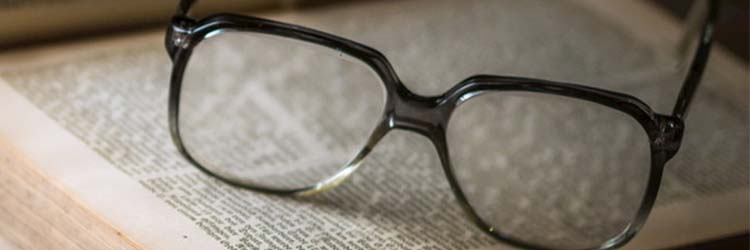
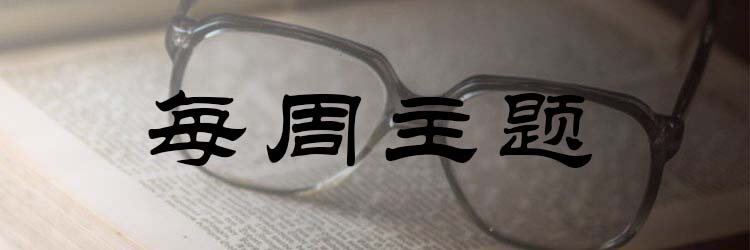
change swiper image

diff --git a/nianshi/pages/year/year.js b/nianshi/pages/year/year.js
@@ -62,7 +62,7 @@ Page({
   },
   bindYearTap: function(e){
     console.log(e)
-    var years = ['1900前', '1900', '1910', '1920', '1930', '1940', '1950', '1960', '1970', '1980', '1990', '2000', '2010', '2010'];
+    var years = ['19000', '1900', '1910', '1920', '1930', '1940', '1950', '1960', '1970', '1980', '1990', '2000', '2010', '20100'];
     wx.navigateTo({
       url: '/pages/articleList/articleList?id=' + years[e.target.id],
     })

diff --git a/nianshi/pages/recommend/recommend.js b/nianshi/pages/recommend/recommend.js
@@ -6,11 +6,11 @@ Page({
     imgUrls: [
       {
         src: 'https://www.nianshi.xyz/images/theme.jpg',
-        text: 'This is a topic'
+        text: '每季主题'
       },
       {
         src: 'https://www.nianshi.xyz/images/theme.jpg',
-        text: 'This is a topic'
+        text: '每季主题'
       }
     ],
     indicatorDots: true,
